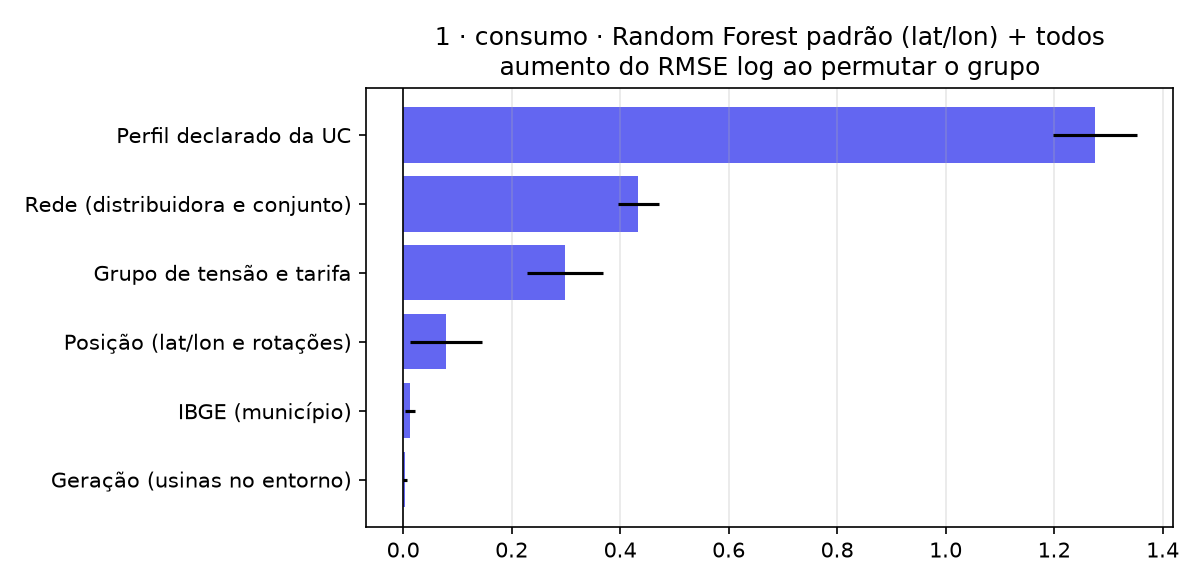
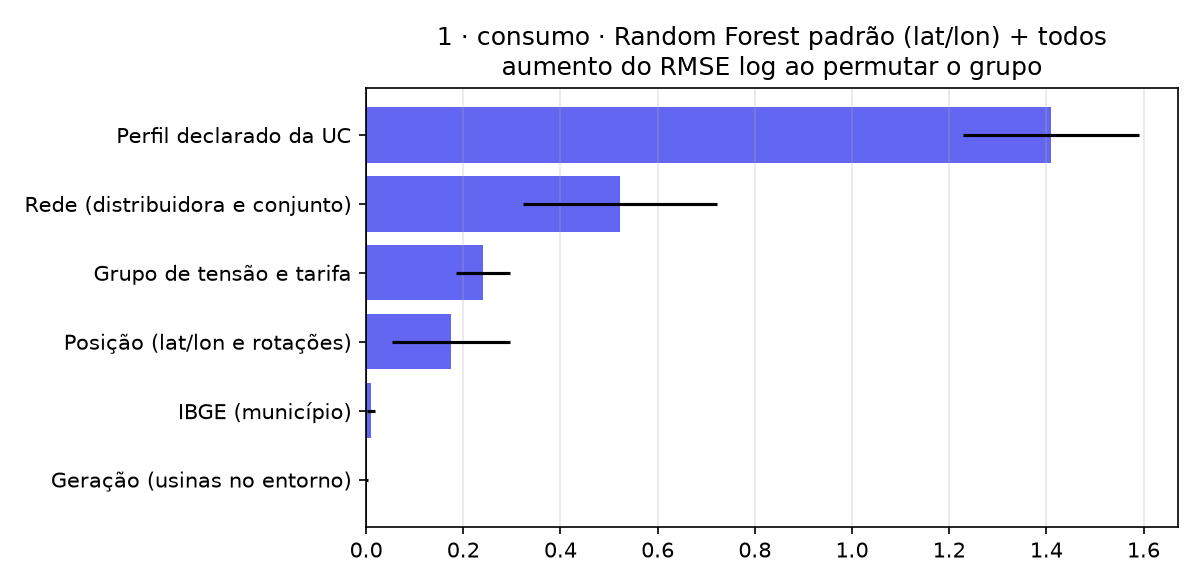
update: interpretabilidade do modelo final (explicacao/ no modo completo)
- explicar_modelos.py: padrões iguais aos da rodada final (60 mil/classe,
  5 folds, 50 blocos K-means, 400 árvores); opção --rapido mantém a
  configuração antiga; relatório informa a configuração usada
- explicacao/: refeita com o protocolo do modelo final (folds = 1ª
  repetição da comparação)
- analise_modelo_final.md: nova seção 6 com permutação, SHAP, R² por
  grupo/região e I de Moran desta rodada
- .gitignore: ignora modelagem/catboost_info/

diff --git a/modelagem/explicar_modelos.py b/modelagem/explicar_modelos.py
@@ -2,7 +2,7 @@
 Interpretabilidade dos modelos (Fase 4) — por que os modelos preveem o que preveem.
 
 Partes (--partes, padrão A,B,C):
-  A — Tarefas 1 e 2 por UC (pipeline de comparar_modelos_ml, configuração do modo rápido):
+  A — Tarefas 1 e 2 por UC (pipeline de comparar_modelos_ml, mesma configuração da rodada final):
       • importância por GRUPO de variáveis por permutação, nos folds de teste da CV espacial
         (permuta juntas as colunas do grupo e mede quanto a métrica piora — não sofre o viés da
         importância por impureza a favor de variáveis contínuas);
@@ -17,7 +17,8 @@ Partes (--partes, padrão A,B,C):
       de MT e de AT em relação à BT por +1 desvio-padrão de cada variável).
 
 Saída: modelagem/resultados/explicacao/ (relatorio_explicacao.md, CSVs e PNGs).
-Uso: python modelagem/explicar_modelos.py [--partes A,B,C] [--n-por-classe 15000] [--folds 3]
+Uso: python modelagem/explicar_modelos.py [--partes A,B,C] [--rapido]
+     (padrão = rodada final: --n-por-classe 60000 --folds 5 --n-blocos 50 --n-arvores 400)
 """
 from __future__ import annotations
 
@@ -151,9 +152,11 @@ def moran(valores: np.ndarray, coords: np.ndarray, k: int = 8, n_perm: int = 499
 # --------------------------------------------------------------------------- #
 def parte_a(args) -> list[str]:
     print("\n[A] Tarefas 1 e 2 por UC — amostra, folds e modelos...")
-    a = SimpleNamespace(n_arvores=150, seed=SEED, sem_gwr=True, sem_gp=True, n_gwr=0, n_gp=0, k=15,
-                        grupos=set(cm.SUFIXOS_GRUPO), tipo_bloco="kmeans", n_blocos=30, folds=args.folds,
-                        repeticoes=1, cv_aleatoria=False)
+    # Mesmo protocolo da rodada final do comparar_modelos_ml (seed, blocos K-means, árvores): com a
+    # configuração padrão, os folds aqui são idênticos aos da 1ª repetição daquela rodada
+    a = SimpleNamespace(n_arvores=args.n_arvores, seed=SEED, sem_gwr=True, sem_gp=True, n_gwr=0, n_gp=0, k=15,
+                        grupos=set(cm.SUFIXOS_GRUPO), tipo_bloco="kmeans", n_blocos=args.n_blocos,
+                        folds=args.folds, repeticoes=1, cv_aleatoria=False)
     lf_base, _ = cm.carregar_bases(False)
     lf_modelo = lf_base.filter(pl.col("_GEO") & pl.col("_COORD_UC") & (pl.col("ENE") > 0)
                                & (pl.col("GRU_TEN") != cm.NA))
@@ -297,7 +300,10 @@ def parte_a(args) -> list[str]:
     top_shap = lambda t: ", ".join(shap_tab[shap_tab["tarefa"] == t].head(6)["variavel"])
     return [
         "## A. Tarefas 1 e 2 por UC",
-        f"Amostra estratificada de {len(df):,} UCs, {len(folds)} folds espaciais (configuração do modo rápido).".replace(",", "."),
+        (f"Amostra estratificada de {len(df):,} UCs, {len(folds)} folds espaciais "
+         f"({a.n_blocos} blocos K-means), {a.n_arvores} árvores · alvo anualizado · "
+         + ("configuração do modo rápido." if args.rapido else
+            "mesma configuração da rodada final (folds = 1ª repetição da comparação).")).replace(",", "."),
         "",
         "### Importância por grupo (permutação nos folds de teste)",
         "Aumento médio do erro ao embaralhar juntas as colunas do grupo. Grupos correlacionados (ex.: perfil e "
@@ -428,9 +434,16 @@ def parte_c(args) -> list[str]:
 def main():
     ap = argparse.ArgumentParser(description="Interpretabilidade dos modelos (Fase 4)")
     ap.add_argument("--partes", default="A,B,C")
-    ap.add_argument("--n-por-classe", type=int, default=15_000)
-    ap.add_argument("--folds", type=int, default=3)
+    # Padrões = rodada final do comparar_modelos_ml (60 mil/classe, 5 folds, 50 blocos, 400 árvores)
+    ap.add_argument("--n-por-classe", type=int, default=60_000)
+    ap.add_argument("--folds", type=int, default=5)
+    ap.add_argument("--n-blocos", type=int, default=50, help="clusters K-means p/ Spatial Block CV")
+    ap.add_argument("--n-arvores", type=int, default=400)
+    ap.add_argument("--rapido", action="store_true",
+                    help="modo de teste rápido (15 mil/classe, 3 folds, 30 blocos, 150 árvores)")
     args = ap.parse_args()
+    if args.rapido:
+        args.n_por_classe, args.folds, args.n_blocos, args.n_arvores = 15_000, 3, 30, 150
     OUT_DIR.mkdir(parents=True, exist_ok=True)
     t0 = time.time()
     partes = {p.strip().upper() for p in args.partes.split(",")}

diff --git a/modelagem/resultados/explicacao/relatorio_explicacao.md b/modelagem/resultados/explicacao/relatorio_explicacao.md
@@ -3,74 +3,74 @@
 Por que os modelos preveem o que preveem: importância por grupo (permutação fora da amostra), SHAP nativo, dependência parcial, resíduos no espaço e coeficientes.
 
 ## A. Tarefas 1 e 2 por UC
-Amostra estratificada de 32.042 UCs. 3 folds espaciais (configuração do modo rápido).
+Amostra estratificada de 121.884 UCs. 5 folds espaciais (50 blocos K-means). 400 árvores · alvo anualizado · mesma configuração da rodada final (folds = 1ª repetição da comparação).
 
 ### Importância por grupo (permutação nos folds de teste)
 Aumento médio do erro ao embaralhar juntas as colunas do grupo. Grupos correlacionados (ex.: perfil e grupo de tensão) dividem a informação: a importância de cada um é o que só ele traz.
 
 | tarefa | modelo | grupo | aumento_erro | aumento_erro_dp |
 |---|---|---|---|---|
-| 1 · consumo | LightGBM (feat. espaciais) + todos | Geração (usinas no entorno) | 0,0027 | 0,0010 |
-| 1 · consumo | LightGBM (feat. espaciais) + todos | Grupo de tensão e tarifa | 0,3576 | 0,1200 |
-| 1 · consumo | LightGBM (feat. espaciais) + todos | IBGE (município) | 0,0038 | 0,0121 |
-| 1 · consumo | LightGBM (feat. espaciais) + todos | Perfil declarado da UC | 1,2721 | 0,0961 |
-| 1 · consumo | LightGBM (feat. espaciais) + todos | Posição (lat/lon e rotações) | 0,0828 | 0,0284 |
-| 1 · consumo | LightGBM (feat. espaciais) + todos | Rede (distribuidora e conjunto) | 0,3714 | 0,0166 |
-| 1 · consumo | LightGBM (feat. espaciais) + todos | Vizinhança (lags kNN e densidade) | 0,0131 | 0,0078 |
-| 1 · consumo | Random Forest padrão (lat/lon) + todos | Geração (usinas no entorno) | 0,0031 | 0,0036 |
-| 1 · consumo | Random Forest padrão (lat/lon) + todos | Grupo de tensão e tarifa | 0,2984 | 0,0697 |
-| 1 · consumo | Random Forest padrão (lat/lon) + todos | IBGE (município) | 0,0128 | 0,0091 |
-| 1 · consumo | Random Forest padrão (lat/lon) + todos | Perfil declarado da UC | 1,2755 | 0,0767 |
-| 1 · consumo | Random Forest padrão (lat/lon) + todos | Posição (lat/lon e rotações) | 0,0792 | 0,0657 |
-| 1 · consumo | Random Forest padrão (lat/lon) + todos | Rede (distribuidora e conjunto) | 0,4331 | 0,0379 |
-| 2 · GRU_TEN | CatBoost (feat. espaciais) + todos | Geração (usinas no entorno) | 0,0018 | 0,0016 |
-| 2 · GRU_TEN | CatBoost (feat. espaciais) + todos | IBGE (município) | 0,0072 | 0,0020 |
-| 2 · GRU_TEN | CatBoost (feat. espaciais) + todos | Posição (lat/lon e rotações) | 0,0030 | 0,0017 |
-| 2 · GRU_TEN | CatBoost (feat. espaciais) + todos | Rede (distribuidora e conjunto) | 0,0107 | 0,0043 |
-| 2 · GRU_TEN | CatBoost (feat. espaciais) + todos | Vizinhança (lags kNN e densidade) | 0,0043 | 0,0010 |
+| 1 · consumo | LightGBM (feat. espaciais) + todos | Geração (usinas no entorno) | 0,0051 | 0,0028 |
+| 1 · consumo | LightGBM (feat. espaciais) + todos | Grupo de tensão e tarifa | 0,3597 | 0,0970 |
+| 1 · consumo | LightGBM (feat. espaciais) + todos | IBGE (município) | 0,0058 | 0,0044 |
+| 1 · consumo | LightGBM (feat. espaciais) + todos | Perfil declarado da UC | 1,3399 | 0,1094 |
+| 1 · consumo | LightGBM (feat. espaciais) + todos | Posição (lat/lon e rotações) | 0,2276 | 0,1780 |
+| 1 · consumo | LightGBM (feat. espaciais) + todos | Rede (distribuidora e conjunto) | 0,4662 | 0,1852 |
+| 1 · consumo | LightGBM (feat. espaciais) + todos | Vizinhança (lags kNN e densidade) | 0,0085 | 0,0044 |
+| 1 · consumo | Random Forest padrão (lat/lon) + todos | Geração (usinas no entorno) | 0,0026 | 0,0020 |
+| 1 · consumo | Random Forest padrão (lat/lon) + todos | Grupo de tensão e tarifa | 0,2408 | 0,0557 |
+| 1 · consumo | Random Forest padrão (lat/lon) + todos | IBGE (município) | 0,0092 | 0,0080 |
+| 1 · consumo | Random Forest padrão (lat/lon) + todos | Perfil declarado da UC | 1,4097 | 0,1807 |
+| 1 · consumo | Random Forest padrão (lat/lon) + todos | Posição (lat/lon e rotações) | 0,1737 | 0,1214 |
+| 1 · consumo | Random Forest padrão (lat/lon) + todos | Rede (distribuidora e conjunto) | 0,5225 | 0,1992 |
+| 2 · GRU_TEN | CatBoost (feat. espaciais) + todos | Geração (usinas no entorno) | 0,0012 | 0,0013 |
+| 2 · GRU_TEN | CatBoost (feat. espaciais) + todos | IBGE (município) | 0,0031 | 0,0026 |
+| 2 · GRU_TEN | CatBoost (feat. espaciais) + todos | Posição (lat/lon e rotações) | -0,0001 | 0,0028 |
+| 2 · GRU_TEN | CatBoost (feat. espaciais) + todos | Rede (distribuidora e conjunto) | 0,0153 | 0,0124 |
+| 2 · GRU_TEN | CatBoost (feat. espaciais) + todos | Vizinhança (lags kNN e densidade) | 0,0076 | 0,0075 |
 
 Gráficos: `importancia_grupos_*.png`.
 
 ### SHAP (nativo)
-- Tarefa 1 · LightGBM + todos — variáveis com maior |SHAP| médio: TE_GRU_TEN, LOG_DEM_CONT, LOG_CAR_INST, TE_FAS_CON, TE_TEN_FORN, TE_DIST (`shap_t1_lightgbm.png`).
-- Tarefa 2 · CatBoost + todos, log-odds de MT — LOG_DIST_1_KM, KNN_P_BT, KNN_P_MT, REDE_P_BT, REDE_P_MT, IBGE_URBANIZACAO (`shap_t2_catboost_mt.png`).
+- Tarefa 1 · LightGBM + todos — variáveis com maior |SHAP| médio: TE_GRU_TEN, LOG_DEM_CONT, LOG_CAR_INST, TE_FAS_CON, TE_DIST, LIV (`shap_t1_lightgbm.png`).
+- Tarefa 2 · CatBoost + todos, log-odds de MT — LOG_DIST_1_KM, KNN_P_MT, KNN_P_BT, LOG_DIST_K_KM, IBGE_PART_INDUSTRIA, REDE_P_MT (`shap_t2_catboost_mt.png`).
 - O RF (melhor da tarefa 1) não tem SHAP nativo; é explicado pela permutação e pela dependência parcial.
 
 ### Dependência parcial — Tarefa 1, RF + todos (`dependencia_parcial_t1_rf.png`)
 Consumo médio previsto quando uma variável é fixada em cada valor e as demais seguem como observadas (demanda contratada só nas UCs de MT; carga instalada só nas de BT).
 
 ### Onde o modelo erra — resíduos fora da amostra (RF + todos)
-- I de Moran dos resíduos médios por município (vizinhança 8-NN): **0.341** (p = 0.002). Valor positivo e significativo = sobra estrutura espacial não explicada (falta variável regional); próximo de zero = os erros não se agrupam no espaço. Mapa: `residuos_mapa_t1.png`.
+- I de Moran dos resíduos médios por município (vizinhança 8-NN): **0,261** (p = 0,002). Valor positivo e significativo = sobra estrutura espacial não explicada (falta variável regional); próximo de zero = os erros não se agrupam no espaço. Mapa: `residuos_mapa_t1.png`.
 
 | REGIAO | n_UC | R2_log | vies_log |
 |---|---|---|---|
-| Centro-Oeste | 2.475,0000 | 0,3913 | 0,0733 |
-| N/D | 6,0000 | 0,2283 | -1,5232 |
-| Nordeste | 7.594,0000 | 0,3424 | 0,2371 |
-| Norte | 2.261,0000 | 0,4923 | 0,1438 |
-| Sudeste | 11.574,0000 | 0,6472 | 0,0553 |
-| Sul | 8.132,0000 | 0,3673 | -0,0083 |
+| Centro-Oeste | 9.426,0000 | 0,4475 | 0,0841 |
+| N/D | 16,0000 | 0,5009 | -0,4619 |
+| Nordeste | 28.760,0000 | 0,4820 | 0,0684 |
+| Norte | 8.974,0000 | 0,5895 | 0,0950 |
+| Sudeste | 42.847,0000 | 0,6911 | 0,0883 |
+| Sul | 31.861,0000 | 0,4087 | 0,0926 |
 
 | GRU_TEN | n_UC | R2_log | vies_log |
 |---|---|---|---|
-| AT | 1.769,0000 | 0,1937 | 0,5395 |
-| BT | 15.109,0000 | 0,3852 | 0,0926 |
-| MT | 15.164,0000 | 0,4701 | -0,0368 |
+| AT | 1.769,0000 | 0,1844 | 0,7643 |
+| BT | 59.933,0000 | 0,4515 | 0,0862 |
+| MT | 60.182,0000 | 0,5787 | 0,0554 |
 
 Distribuidoras com mais UCs na amostra (pior → melhor R²):
 
 | DIST | n_UC | R2_log | vies_log |
 |---|---|---|---|
-| 2866 | 3.217,0000 | 0,2423 | -0,0603 |
-| 405 | 1.359,0000 | 0,2999 | 0,0632 |
-| 47 | 2.714,0000 | 0,3333 | 0,0688 |
-| 43 | 1.672,0000 | 0,3780 | 0,2978 |
-| 396 | 2.405,0000 | 0,3948 | 0,0253 |
-| 63 | 2.487,0000 | 0,4948 | 0,0432 |
-| 385 | 1.069,0000 | 0,5134 | -0,3942 |
-| 5697 | 1.279,0000 | 0,7244 | 0,4623 |
-| 4950 | 2.306,0000 | 0,8398 | 0,0164 |
-| 390 | 1.042,0000 | 0,8487 | -0,3519 |
+| 2866 | 12.920,0000 | 0,3238 | 0,0548 |
+| 405 | 5.226,0000 | 0,3271 | 0,0547 |
+| 47 | 10.451,0000 | 0,3832 | 0,1401 |
+| 396 | 9.055,0000 | 0,3847 | 0,1700 |
+| 43 | 6.078,0000 | 0,4720 | -0,0305 |
+| 385 | 3.855,0000 | 0,5799 | -0,0783 |
+| 63 | 9.227,0000 | 0,6484 | 0,0296 |
+| 5697 | 4.967,0000 | 0,7922 | 0,1739 |
+| 390 | 3.472,0000 | 0,8689 | -0,1707 |
+| 4950 | 8.548,0000 | 0,8706 | 0,0448 |
 
 ## B. Tarefa 3 — expansão da geração
 RF + IBGE 2010 treinado em T=2015; AUC-PR no teste temporal (T=2020) = 0.337.

diff --git a/modelagem/resultados/analise_modelo_final.md b/modelagem/resultados/analise_modelo_final.md
@@ -29,7 +29,7 @@ Ablação sobre o RF lat/lon (R² base de 0,154):
 | IBGE | +0,035 | não no geral, mas melhora o MdAPE (p = 0,013) e o R² de MT (+0,08, 14/15 folds) |
 | todos | +0,422 | sim |
 
-O modelo "todos" ainda supera o "perfil" sozinho em 15/15 folds (+0,07 de R²). Ou seja, rede, IBGE e geração somam informação de forma complementar, mesmo que isoladamente sejam fracos. A interpretabilidade anterior aponta na mesma direção: na permutação, perfil = 1,28, rede = 0,43, posição = 0,08 e geração/IBGE ≈ 0.
+O modelo "todos" ainda supera o "perfil" sozinho em 15/15 folds (+0,07 de R²). Ou seja, rede, IBGE e geração somam informação de forma complementar, mesmo que isoladamente sejam fracos. A interpretabilidade do modelo final (ver seção 6) aponta na mesma direção: na permutação, perfil = 1,41, rede = 0,52, tensão/tarifa = 0,24, posição = 0,17 e geração/IBGE ≈ 0.
 
 ### 3. Desempenho por grupo de tensão
 
@@ -45,6 +45,27 @@ Um MAE_log de 0,91 equivale a errar, tipicamente, por um fator de cerca de 2,5×
 ### 5. Os modelos geoestatísticos ficaram abaixo dos de ML
 
 Krigagem (R² ≈ 0), GWR (R² negativo, só 7 de 15 folds concluídos) e kNN (baseline) ficaram atrás. O consumo de uma UC é dominado por atributos próprios, e a autocorrelação espacial explica pouco. O XGBoost foi o mais instável (dp 0,31), provavelmente por falta de tuning.
+
+### 6. Interpretabilidade do modelo final (rodada de 25/11/2026)
+
+O `explicar_modelos.py` foi rodado de novo com a mesma configuração da rodada final: 121.884 UCs, 50 blocos K-means, 400 árvores e alvo anualizado. Os 5 folds são os da 1ª repetição da comparação. Resultados em `explicacao/`.
+
+- **Permutação por grupo (aumento do RMSE_log), RF + todos:**
+
+  | grupo | aumento do erro |
+  |---|---|
+  | perfil | 1,41 ± 0,18 |
+  | rede | 0,52 ± 0,20 |
+  | tensão/tarifa | 0,24 |
+  | posição | 0,17 |
+  | IBGE | 0,009 |
+  | geração | 0,003 |
+
+  O LightGBM + todos tem a mesma ordem. Isso confirma a ablação: o modelo depende do perfil declarado e da rede.
+- **SHAP, Tarefa 1 (LightGBM + todos):** as principais variáveis são TE_GRU_TEN, a demanda contratada, a carga instalada, TE_FAS_CON, TE_DIST e LIV. Na Tarefa 2 (CatBoost, log-odds de MT), predominam a distância (LOG_DIST_1_KM), a composição da vizinhança (KNN_P_MT e KNN_P_BT) e a participação da indústria no VA do município.
+- **R² fora da amostra por grupo de tensão:** MT = 0,58, BT = 0,45 e AT = 0,18. Os valores de MT e BT coincidem com os da comparação (0,58 e 0,46). O AT continua instável e tem viés alto (+0,76 em log, ou seja, o modelo subestima o consumo dessas UCs).
+- **R² por região:** vai de 0,41 no Sul a 0,69 no Sudeste. O viés é pequeno e positivo em todas as regiões (0,07–0,10).
+- **Resíduos no espaço:** o I de Moran dos resíduos médios por município é de **0,26** (p = 0,002). Na versão em modo rápido era 0,34. Ainda sobra estrutura espacial não explicada, e as distribuidoras variam de R² 0,32 a 0,87. Uma variável regional adicional, como um efeito da distribuidora ou do município, poderia reduzir esse resíduo.
 
 ### Ressalva: o modelo regional
 
@@ -81,7 +102,7 @@ Eles são candidatos melhores para o mapa regional do que um modelo que só repr
 
 - Os rankings de consumo e de expansão são descritivos e não mudaram em relação à rodada anterior.
 - **Não compare diretamente com a rodada anterior.** O RF base caiu de R² 0,22 para 0,15 porque mudaram o protocolo (5 folds × 3 repetições) e o alvo (agora anualizado). O ganho real vem da ablação dentro da mesma rodada.
-- **Interpretabilidade desatualizada:** a pasta `explicacao/` é de 15/10, rodada no modo rápido (3 folds, 32 mil UCs). Rodar de novo o `explicar_modelos.py` no modo completo, para que SHAP, resíduos e importâncias correspondam ao modelo final.
+- **Interpretabilidade atualizada (25/11/2026):** a pasta `explicacao/` foi refeita no modo completo, com o mesmo protocolo do modelo final (seção 6). Ela substitui a versão de 15/10, rodada no modo rápido (3 folds, 32 mil UCs, 150 árvores). As partes B (expansão) e C (composição) não dependem dessa configuração e ficaram iguais.
 - **Importâncias do modelo errado:** o `importancia_features_tarefa1.csv` se refere ao modelo **regional** (RF + geração), não ao final. Por isso aparecem LAT/LON no topo e nenhuma variável de perfil.
 
 ## Resumo
